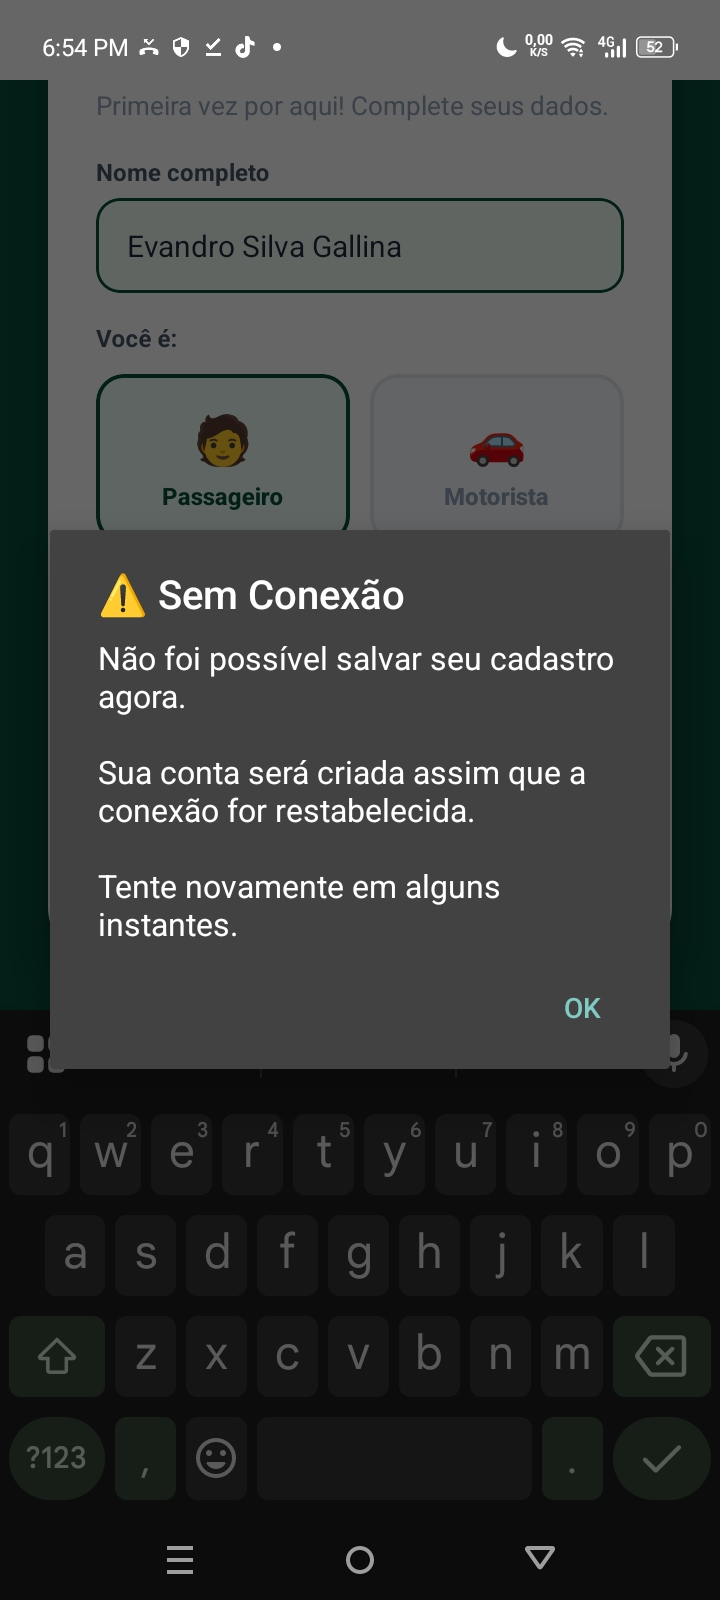
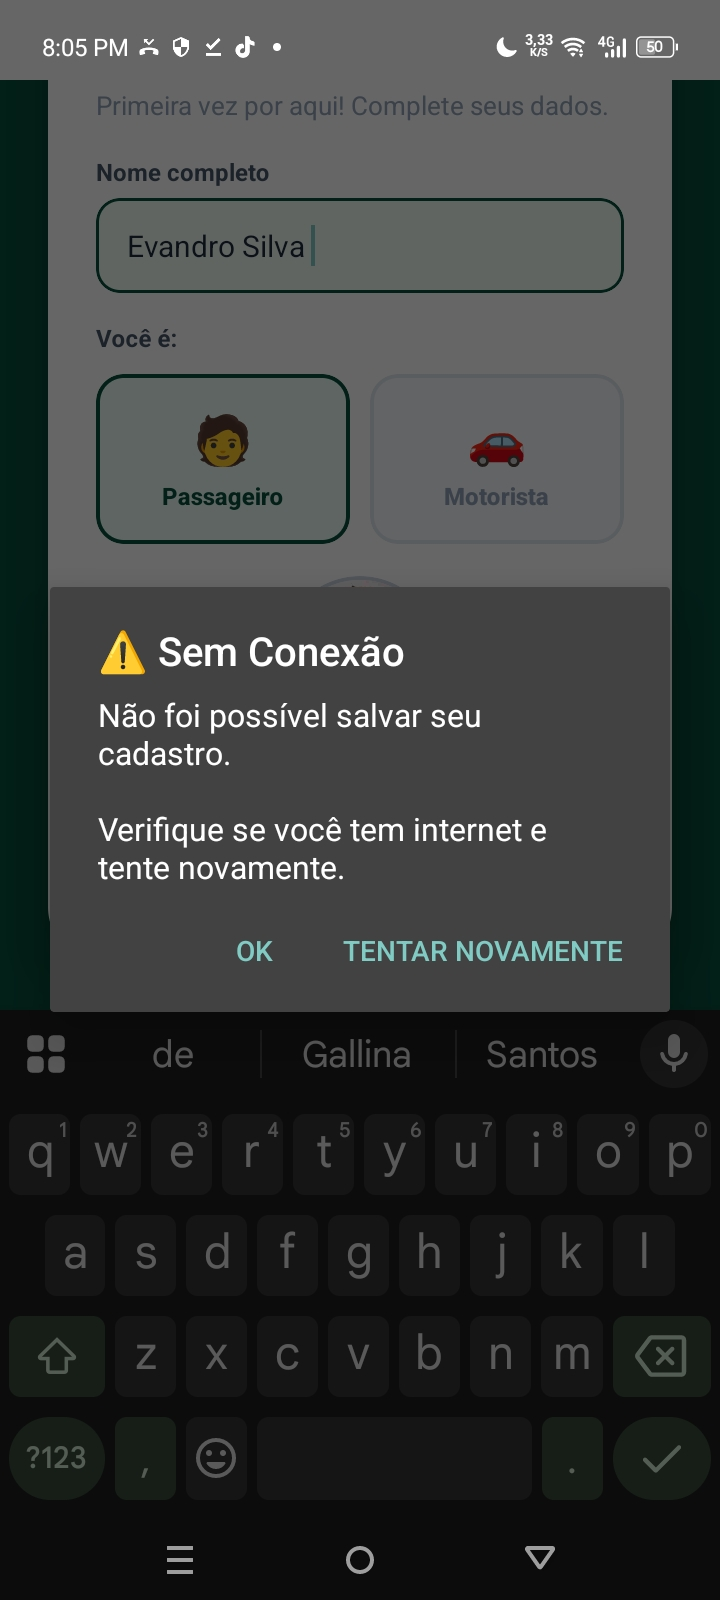
Fix: Startup resiliente (sobe sem Postgres), URLs corrigidas para HTTP, healthcheck robusto

diff --git a/app-mobile/screens/LoginScreen.js b/app-mobile/screens/LoginScreen.js
@@ -11,31 +11,35 @@ import Constants from 'expo-constants';
 
 // ============================================================
 // CONFIGURAÇÃO DE URL — ordem de prioridade
-// EXPO_PUBLIC_API_URL é injetada no BUILD do EAS (não no servidor)
-// Fallbacks garantem que o APK já distribuído funcione
+// O backend está em HTTP (Coolify sem SSL ativado)
 // ============================================================
 const BACKEND_HOST = 'p12v8ns66xyrez0h1ywnhj8w.72.61.43.154.sslip.io';
 
 const API_CANDIDATES = [
-  // 1. Variável de ambiente injetada no build (EAS Build / metro bundler)
+  // 1. Variável de ambiente injetada no build (EAS Build)
   process.env.EXPO_PUBLIC_API_URL
     ? process.env.EXPO_PUBLIC_API_URL
         .replace('ws://', 'http://')
-        .replace('wss://', 'https://')
+        .replace('wss://', 'http://')
         .replace('/ws', '')
     : null,
-  // 2. URL salva no app.json > extra.apiUrl (mais confiável para APKs distribuídos)
+  // 2. URL salva no app.json > extra.apiUrl
   Constants.expoConfig?.extra?.apiUrl || null,
-  // 3. HTTPS com domínio sslip.io (Coolify com SSL)
-  `https://${BACKEND_HOST}`,
-  // 4. HTTP direto ao IP:porta (bypass SSL, útil em redes corporativas)
+  // 3. HTTP com domínio sslip.io (Coolify sem SSL)
+  `http://${BACKEND_HOST}`,
+  // 4. IP direto como último recurso
   `http://72.61.43.154:8000`,
 ].filter(Boolean);
 
 const WS_CANDIDATES = [
-  process.env.EXPO_PUBLIC_API_URL || null,
+  process.env.EXPO_PUBLIC_API_URL
+    ? process.env.EXPO_PUBLIC_API_URL
+        .replace('http://', 'ws://')
+        .replace('https://', 'ws://')
+        .replace(/\/?$/, '/ws')
+    : null,
   Constants.expoConfig?.extra?.wsUrl || null,
-  `wss://${BACKEND_HOST}/ws`,
+  `ws://${BACKEND_HOST}/ws`,
   `ws://72.61.43.154:8000/ws`,
 ].filter(Boolean);
 

diff --git a/backend/main.py b/backend/main.py
@@ -83,41 +83,69 @@ logger = logging.getLogger(__name__)
 
 @app.on_event("startup")
 async def startup():
+    """
+    Startup RESILIENTE — o servidor SEMPRE sobe, mesmo se o Postgres falhar.
+    Isso é crítico para o healthcheck do Coolify funcionar.
+    Se o banco não estiver disponível, o app roda em modo degradado (in-memory).
+    """
+    global db_pool
+    logger.info("🚀 BibiMarcos API iniciando...")
+
+    # Tenta conectar ao banco com timeout total de 30s
+    # Se falhar, o servidor sobe MESMO ASSIM em modo degradado
+    try:
+        await _init_database()
+    except Exception as e:
+        logger.error(f"⚠  Banco de dados não disponível no startup: {e}")
+        logger.warning("🟡 Servidor iniciando em MODO DEGRADADO (sem banco). Dados serão in-memory.")
+
+    logger.info("✅ BibiMarcos API pronta para receber requisições.")
+
+
+async def _init_database():
+    """Inicializa o banco de dados. Lançará exceção se falhar — tratado no startup."""
     global db_pool
     parsed_url = urllib.parse.urlparse(DATABASE_URL)
     db_name = parsed_url.path.lstrip('/')
     sys_url = parsed_url._replace(path='/postgres').geturl()
 
-    # 1. Auto-criar banco se não existir
+    # 1. Auto-criar banco se não existir (3 tentativas, 3s entre cada)
     for attempt in range(3):
         try:
-            sys_conn = await asyncpg.connect(sys_url)
-            exists = await sys_conn.fetchval("SELECT 1 FROM pg_database WHERE datname = $1", db_name)
+            sys_conn = await asyncio.wait_for(
+                asyncpg.connect(sys_url),
+                timeout=10.0
+            )
+            exists = await sys_conn.fetchval(
+                "SELECT 1 FROM pg_database WHERE datname = $1", db_name
+            )
             if not exists:
                 logger.info(f"Criando banco '{db_name}'...")
                 await sys_conn.execute(f'CREATE DATABASE "{db_name}"')
-            logger.info(f"✅ Banco '{db_name}' pronto.")
+            logger.info(f"✅ Banco '{db_name}' detectado/criado.")
             await sys_conn.close()
             break
         except Exception as e:
-            logger.error(f"Tentativa {attempt+1}/3 falhou: {e}")
-            if attempt == 2:
-                logger.error("Não foi possível provisionar o banco. Continuando sem auto-provisão.")
-            await asyncio.sleep(2)
+            logger.warning(f"Tentativa {attempt+1}/3 de conexão ao banco falhou: {e}")
+            if attempt < 2:
+                await asyncio.sleep(3)
+            else:
+                raise
 
     # 2. Criar connection pool
-    try:
-        db_pool = await asyncpg.create_pool(
+    db_pool = await asyncio.wait_for(
+        asyncpg.create_pool(
             DATABASE_URL,
-            min_size=2,
+            min_size=1,
             max_size=10,
             command_timeout=30,
-        )
-        logger.info("✅ Connection pool criado com sucesso.")
-    except Exception as e:
-        logger.error(f"Falha ao criar pool: {e}")
+        ),
+        timeout=15.0
+    )
+    logger.info("✅ Connection pool criado.")
 
-    conn = await get_db()
+    # 3. Criar/migrar tabelas
+    conn = await db_pool.acquire()
     try:
         await conn.execute("""
             CREATE TABLE IF NOT EXISTS users (
@@ -133,7 +161,6 @@ async def startup():
                 push_token  TEXT DEFAULT '',
                 created_at  TIMESTAMPTZ DEFAULT NOW()
             );
-
             CREATE TABLE IF NOT EXISTS rides (
                 ride_id         TEXT PRIMARY KEY,
                 passenger_id    TEXT REFERENCES users(user_id),
@@ -166,10 +193,11 @@ async def startup():
         ]:
             try:
                 await conn.execute(col_sql)
-            except: pass
+            except Exception:
+                pass
         logger.info("✅ Tabelas verificadas/criadas com sucesso.")
     finally:
-        await release_db(conn)
+        await db_pool.release(conn)
 
 
 @app.on_event("shutdown")
@@ -296,14 +324,21 @@ def root():
     return {
         "status": "online",
         "app": "BibiMarcos API v5",
+        "db_connected": db_pool is not None,
+        "mode": "full" if db_pool else "degraded_in_memory",
         "drivers_online": len(online_drivers),
         "active_rides": len([r for r in active_rides.values() if r["status"] not in ("completed","cancelled")]),
     }
 
 @app.get("/api/health/ping")
 def ping():
-    """Endpoint leve para o app testar a conectividade antes do login."""
-    return {"ok": True, "ts": datetime.now().isoformat()}
+    """Endpoint leve para o app e Coolify testarem a conectividade."""
+    return {
+        "ok": True,
+        "ts": datetime.now().isoformat(),
+        "db": "connected" if db_pool else "unavailable",
+        "mode": "full" if db_pool else "degraded",
+    }
 
 
 # ============================================================
